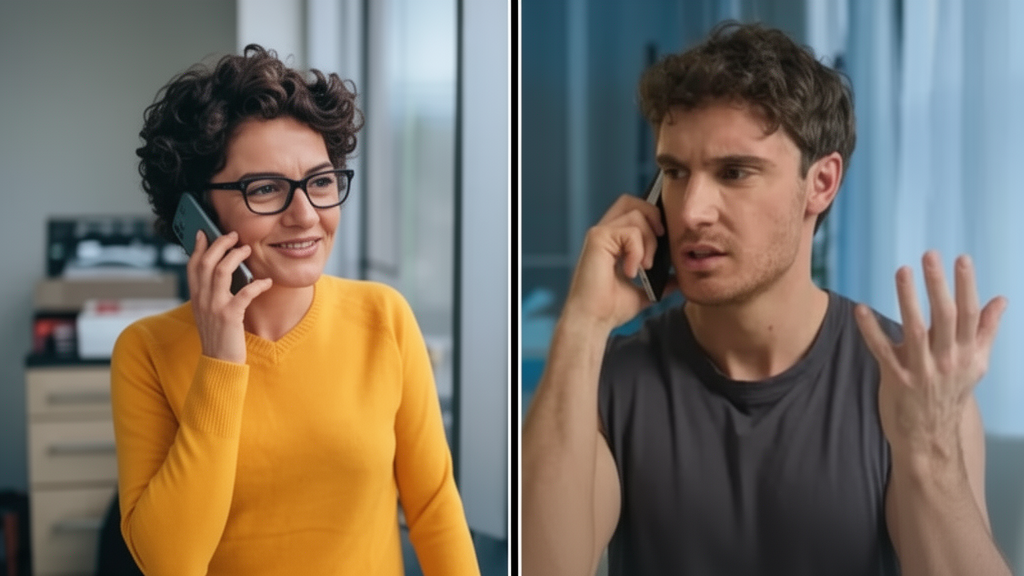
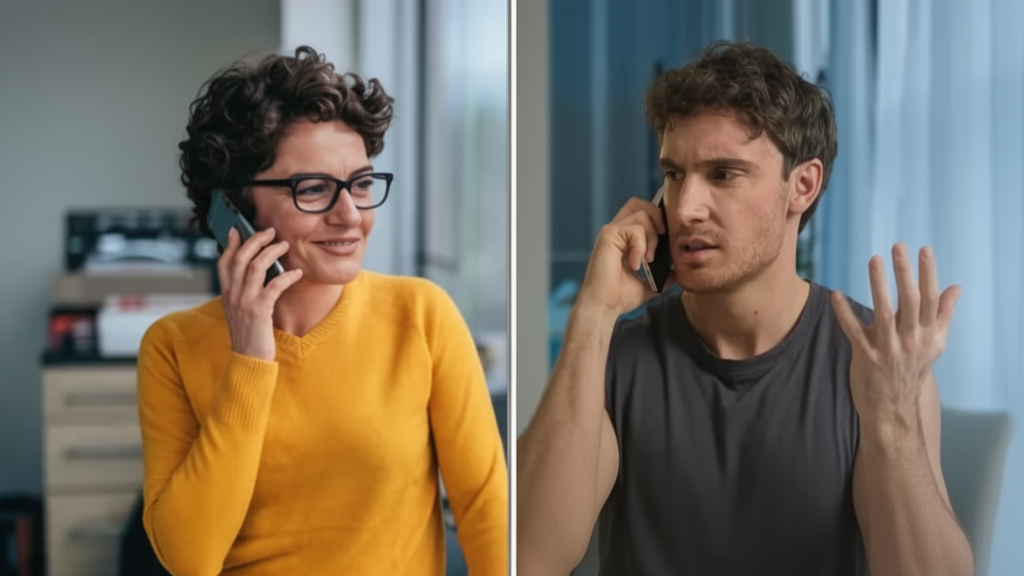
update readme

diff --git a/interact_longer_scenario.py b/interact_longer_scenario.py
@@ -162,34 +162,56 @@ def save_frame(frame):
 
 
 async def play_transition(last_frame_data, new_image_path, direction="left", duration=1.0, fps=30):
-    """Play a push transition between the last stream frame and the new image."""
+    """Play a push transition with blended overlap for the keeper person."""
     global current_frame
 
     old_img = Image.fromarray(last_frame_data)
     new_img = Image.open(new_image_path).resize(old_img.size)
+    new_img = Image.blend(old_img, new_img, 0.95)
 
     width, height = old_img.size
+    half = width // 2
     num_frames = int(duration * fps)
     frame_delay = duration / num_frames
 
+    # Gradient mask for the overlap blend zone (0=image2, 255=image1)
+    gradient_array = np.tile(np.linspace(0, 255, half, dtype=np.uint8), (height, 1))
+    gradient = Image.fromarray(gradient_array, mode="L")
+
+    # Build 1.5x canvas: [departing_half | keeper_blend | newcomer_half]
+    canvas = Image.new("RGB", (width + half, height))
+
     if direction == "left":
-        canvas = Image.new("RGB", (width * 2, height))
-        canvas.paste(old_img, (0, 0))
-        canvas.paste(new_img, (width, 0))
+        # Old: [A | B], New: [B | C] → Canvas: [A | B_blend | C]
+        canvas.paste(old_img.crop((0, 0, half, height)), (0, 0))
+        blended = Image.composite(
+            new_img.crop((0, 0, half, height)),
+            old_img.crop((half, 0, width, height)),
+            gradient,
+        )
+        canvas.paste(blended, (half, 0))
+        canvas.paste(new_img.crop((half, 0, width, height)), (width, 0))
     else:
-        canvas = Image.new("RGB", (width * 2, height))
-        canvas.paste(new_img, (0, 0))
-        canvas.paste(old_img, (width, 0))
+        # Old: [B | A], New: [C | B] → Canvas: [C | B_blend | A]
+        canvas.paste(new_img.crop((0, 0, half, height)), (0, 0))
+        blended = Image.composite(
+            old_img.crop((0, 0, half, height)),
+            new_img.crop((half, 0, width, height)),
+            gradient,
+        )
+        canvas.paste(blended, (half, 0))
+        canvas.paste(old_img.crop((half, 0, width, height)), (width, 0))
 
     for i in range(num_frames + 1):
         t = i / num_frames
         t = t * t * (3 - 2 * t)  # ease-in-out
-        offset = int(t * width)
 
         if direction == "left":
-            frame_img = canvas.crop((offset, 0, offset + width, height))
+            offset = int(t * half)  # 0 → half
         else:
-            frame_img = canvas.crop((width - offset, 0, width * 2 - offset, height))
+            offset = int((1 - t) * half)  # half → 0
+
+        frame_img = canvas.crop((offset, 0, offset + width, height))
 
         with frame_lock:
             current_frame = SyntheticFrame(np.array(frame_img))

diff --git a/README.md b/README.md
@@ -14,3 +14,11 @@ uv run python interact_longer_scenario.py
 ```
 
 Then open http://127.0.0.1:5001
+
+## What is this
+
+Two AI models working together to generate an infinite conversation between pairs of people.
+
+**Odyssey** streams real-time video from a static image — animating two people talking, reacting, and interacting. **Fal (Flux)** generates the next combined image by compositing a new pair of people from individual portraits.
+
+While one pair is being streamed live, the next pair's image is already being generated in the background. When the segment ends, a push transition with blended overlap slides the departing person out and the newcomer in, keeping the shared person in place. Then the next stream begins — and so on, indefinitely.
